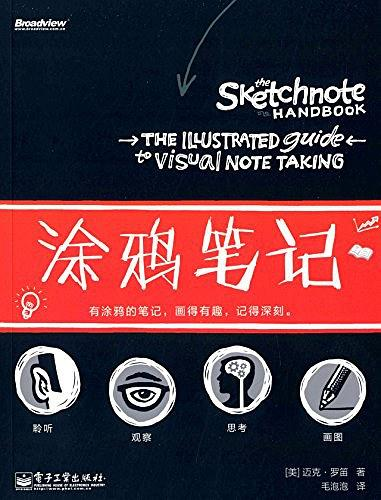
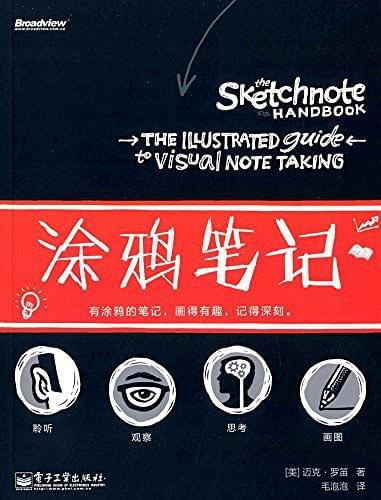
缩小图片体积

diff --git a/themes/ad/scripts/fancybox.js b/themes/ad/scripts/fancybox.js
@@ -18,6 +18,6 @@ hexo.extend.tag.register('fancybox', function(args){
   var title = args.join(' ');
 
   return '<a class="fancybox" data-fancybox="gallery" data-caption="'+ title +'" data-src="' + original + '" title="' + title + '">' +
-    '<img class="fancybox-img" src="' + (thumbnail || original) + '" alt="' + title + '" height="400">' +
+    '<img class="fancybox-img" src="' + (thumbnail || original) + '" alt="' + title + '">' +
     '</a>';
 });

diff --git a/source/_posts/2019-07-03-recommend-a-book.md b/source/_posts/2019-07-03-recommend-a-book.md
@@ -29,7 +29,6 @@ cover: "/passages/2019-07-03-recommend-a-book/2019-07-03_193149.png"
 
 {% fancybox 2019-07-03_202000.png 插图2 %}
 
-
 个人感觉整本书的学习难度不大，但是非常考验排版和创意，新手往往不擅长使用涂鸦的这种风格去记录文字，常常会出现页面比较空旷的结果。而且一般人的绘画功底并不是很出色，很难把页面气氛活跃起来，创造一些灵动的图案等，初期往往很难形成统一的风格。
 
 但是毕竟视觉只是表面，是锦上添花的部分。想法和内容才是根本，是骨架。这也应征了这本书的核心思想“**表达想法，而非艺术**”，对于平常一些学习知识点的总结，视频教程的梳理归纳等都是很不错的方法。
